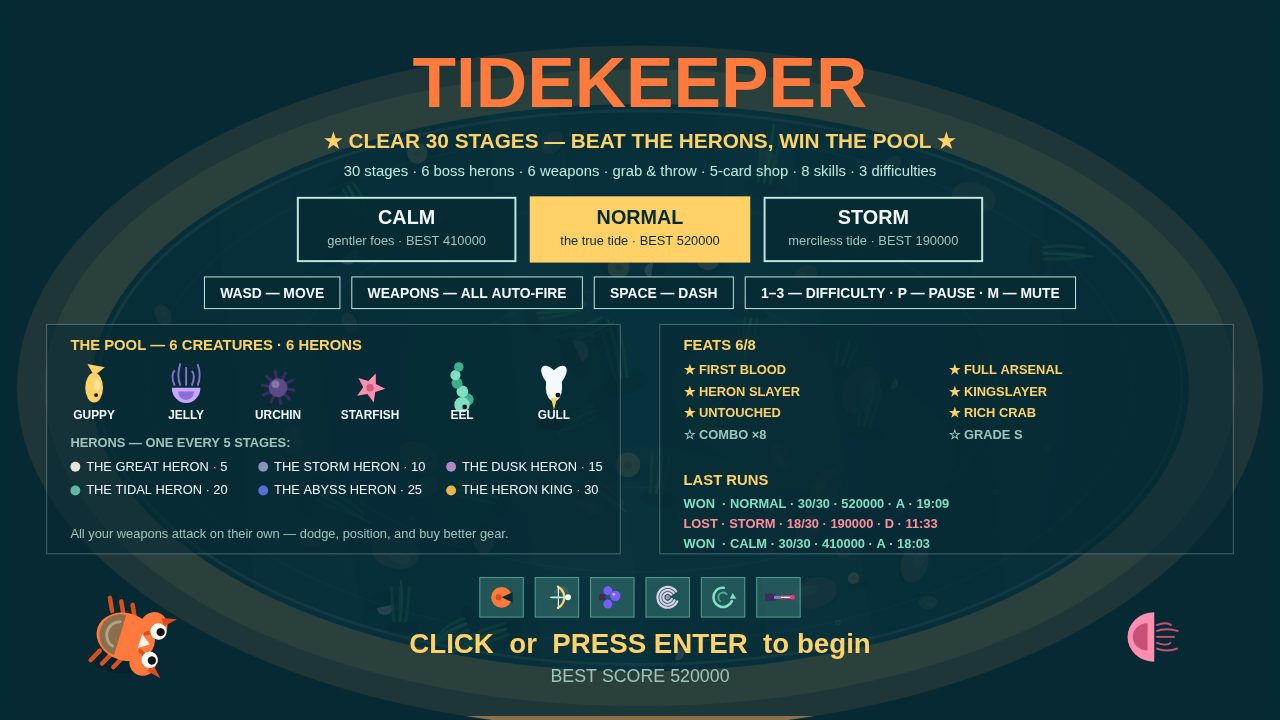
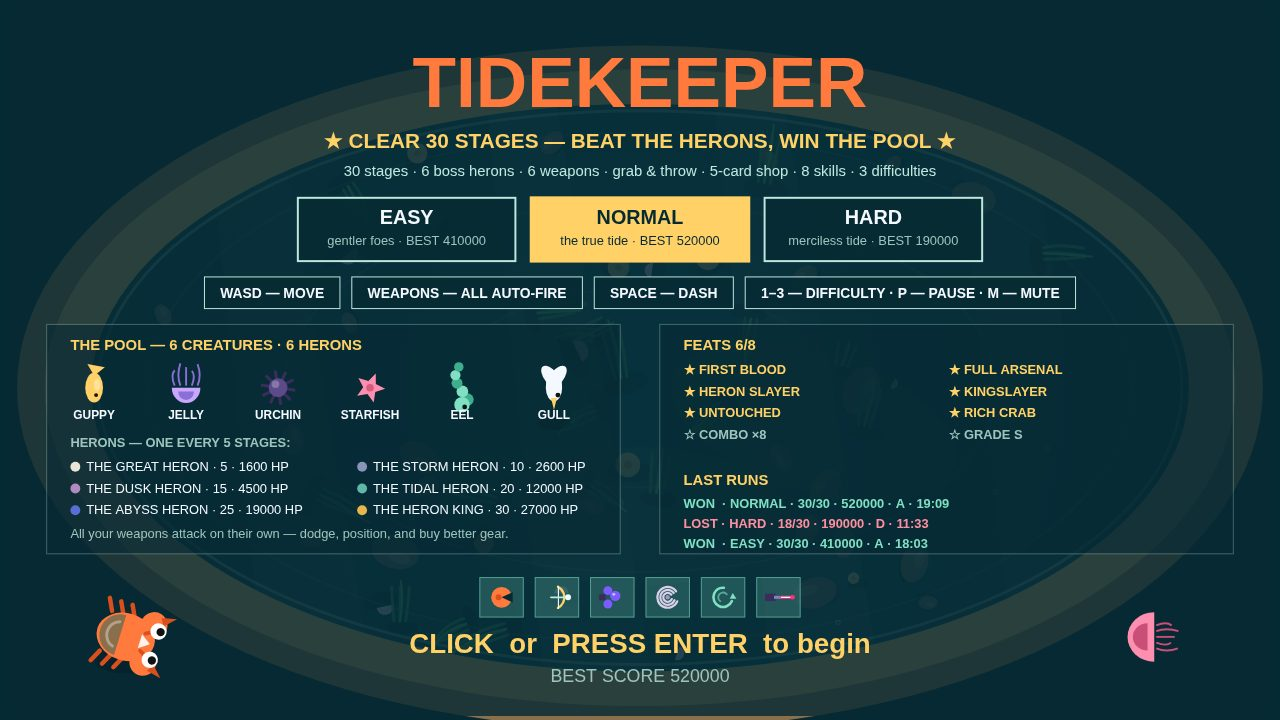
TIDEKEEPER v9b: difficulties EASY/NORMAL/HARD; heron HP in bestiary; grab cooldown in HUD

diff --git a/game/src/render.js b/game/src/render.js
@@ -584,11 +584,14 @@ export function createRenderer(canvas) {
       sx += 40;
     }
     ctx.textAlign = 'left';
-    // Bottom-right: dash cooldown.
+    // Bottom-right: dash + grab cooldowns, one line — the player reads both
+    // at a glance, and HOLDING! confirms a creature is in the claw.
     ctx.textAlign = 'right';
     ctx.fillStyle = 'rgba(6,42,51,0.75)'; ctx.fillRect(VIEW_W - 268, VIEW_H - 60, 250, 44);
     ctx.fillStyle = PAL.text; ctx.font = 'bold 15px sans-serif';
-    ctx.fillText(p.dashCd <= 0 ? 'DASH READY  [Space]' : `DASH ${p.dashCd.toFixed(1)}s`, VIEW_W - 28, VIEW_H - 32);
+    const dashTxt = p.dashCd <= 0 ? 'DASH READY' : `DASH ${p.dashCd.toFixed(1)}s`;
+    const grabTxt = p.grab ? 'HOLDING!' : p.grabCd <= 0 ? 'GRAB READY' : `GRAB ${p.grabCd.toFixed(1)}s`;
+    ctx.fillText(`${dashTxt} · ${grabTxt}`, VIEW_W - 28, VIEW_H - 32);
     // Minimap: the whole pool in one glance, bottom-right above the dash panel.
     drawMinimap(state, t);
     // Wave / elite banner in its own zone (y 146–186) with a dark backdrop and a
@@ -692,12 +695,12 @@ export function createRenderer(canvas) {
     ctx.fillStyle = PAL.dim; ctx.font = 'bold 13px sans-serif';
     ctx.fillText('HERONS — ONE EVERY 5 STAGES:', 64, 448);
     for (let i = 0; i < BOSSES.length; i += 1) {
-      const col = i % 3, row = Math.floor(i / 3);
-      const hx = 64 + col * 190, hy = 472 + row * 24;
+      const col = i % 2, row = Math.floor(i / 2);
+      const hx = 64 + col * 290, hy = 472 + row * 22;
       ctx.fillStyle = BOSSES[i].color;
       ctx.beginPath(); ctx.arc(hx + 5, hy - 4, 5, 0, Math.PI * 2); ctx.fill();
       ctx.fillStyle = PAL.text; ctx.font = '13px sans-serif';
-      ctx.fillText(`${BOSSES[i].name} · ${BOSSES[i].stage}`, hx + 16, hy);
+      ctx.fillText(`${BOSSES[i].name} · ${BOSSES[i].stage} · ${BOSSES[i].hp} HP`, hx + 16, hy);
     }
     ctx.fillStyle = PAL.dim; ctx.font = '13px sans-serif';
     ctx.fillText('All your weapons attack on their own — dodge, position, and buy better gear.', 64, 540);
@@ -945,8 +948,8 @@ export function createRenderer(canvas) {
     let grade, gradeColor, nextGoal;
     if (won && hp >= 60) {
       grade = 'S'; gradeColor = '#ffd166';
-      nextGoal = diff === 'storm' ? 'NEXT GOAL: beat your best score'
-        : diff === 'calm' ? 'NEXT GOAL: win on NORMAL' : 'NEXT GOAL: win on STORM';
+      nextGoal = diff === 'hard' ? 'NEXT GOAL: beat your best score'
+        : diff === 'easy' ? 'NEXT GOAL: win on NORMAL' : 'NEXT GOAL: win on HARD';
     }
     else if (won && hp > 25) { grade = 'A'; gradeColor = '#7fe0c3'; nextGoal = 'NEXT GOAL: finish with 60+ HP for grade S'; }
     else if (won) { grade = 'B'; gradeColor = '#8fb8ff'; nextGoal = 'NEXT GOAL: finish with 26+ HP for grade A'; }

diff --git a/game/src/config.js b/game/src/config.js
@@ -170,15 +170,15 @@ export const SHOP = [
 ];
 
 // Difficulties: real tuning, not labels. NORMAL is the balanced game (all
-// multipliers 1.0 — the sim's 28% win rate is measured on it); CALM softens
-// the tide for a first run; STORM is the merciless climb after a NORMAL win.
+// multipliers 1.0 — the sim's 28% win rate is measured on it); EASY softens
+// the tide for a first run; HARD is the merciless climb after a NORMAL win.
 // Best score is kept per difficulty, and the NEXT GOAL points up the ladder.
 export const DIFFICULTIES = {
-  calm: { label: 'CALM', desc: 'gentler foes', hp: 0.85, dmg: 0.8, speed: 0.97, bossHp: 0.9, bossDmg: 0.85 },
+  easy: { label: 'EASY', desc: 'gentler foes', hp: 0.85, dmg: 0.8, speed: 0.97, bossHp: 0.9, bossDmg: 0.85 },
   normal: { label: 'NORMAL', desc: 'the true tide', hp: 1, dmg: 1, speed: 1, bossHp: 1, bossDmg: 1 },
-  storm: { label: 'STORM', desc: 'merciless tide', hp: 1.1, dmg: 1.0, speed: 1.0, bossHp: 1.1, bossDmg: 1.0 },
+  hard: { label: 'HARD', desc: 'merciless tide', hp: 1.1, dmg: 1.0, speed: 1.0, bossHp: 1.1, bossDmg: 1.0 },
 };
-export const DIFF_ORDER = ['calm', 'normal', 'storm'];
+export const DIFF_ORDER = ['easy', 'normal', 'hard'];
 
 // Feats: eight named goals beyond winning, persisted across runs. A feat is
 // checked at run end (and at the moment it happens for the in-run ones);

diff --git a/game/src/state.js b/game/src/state.js
@@ -17,7 +17,7 @@ export function createState(rng, seed, difficulty = 'normal') {
   }
   return {
     rng, seed, decor, time: 0, phase: 'title',
-    difficulty, // 'calm' | 'normal' | 'storm' — set on the title, fixed for the run
+    difficulty, // 'easy' | 'normal' | 'hard' — set on the title, fixed for the run
     // Combo: chained kills raise the score multiplier (×1–×8). comboT counts
     // down from COMBO_WINDOW after every kill; at 0 the chain resets.
     combo: 0, comboT: 0,

diff --git a/game/src/meta.js b/game/src/meta.js
@@ -21,7 +21,7 @@ function writeJson(key, value) {
   try { window.localStorage.setItem(key, JSON.stringify(value)); } catch { /* private mode */ }
 }
 
-// The meta record: { bests: { calm, normal, storm }, feats: [ids], runs: [...] }.
+// The meta record: { bests: { easy, normal, hard }, feats: [ids], runs: [...] }.
 // A legacy single best (pre-v8) is adopted as the NORMAL best once.
 export function readMeta() {
   const bests = readJson(BESTS_KEY, {});
